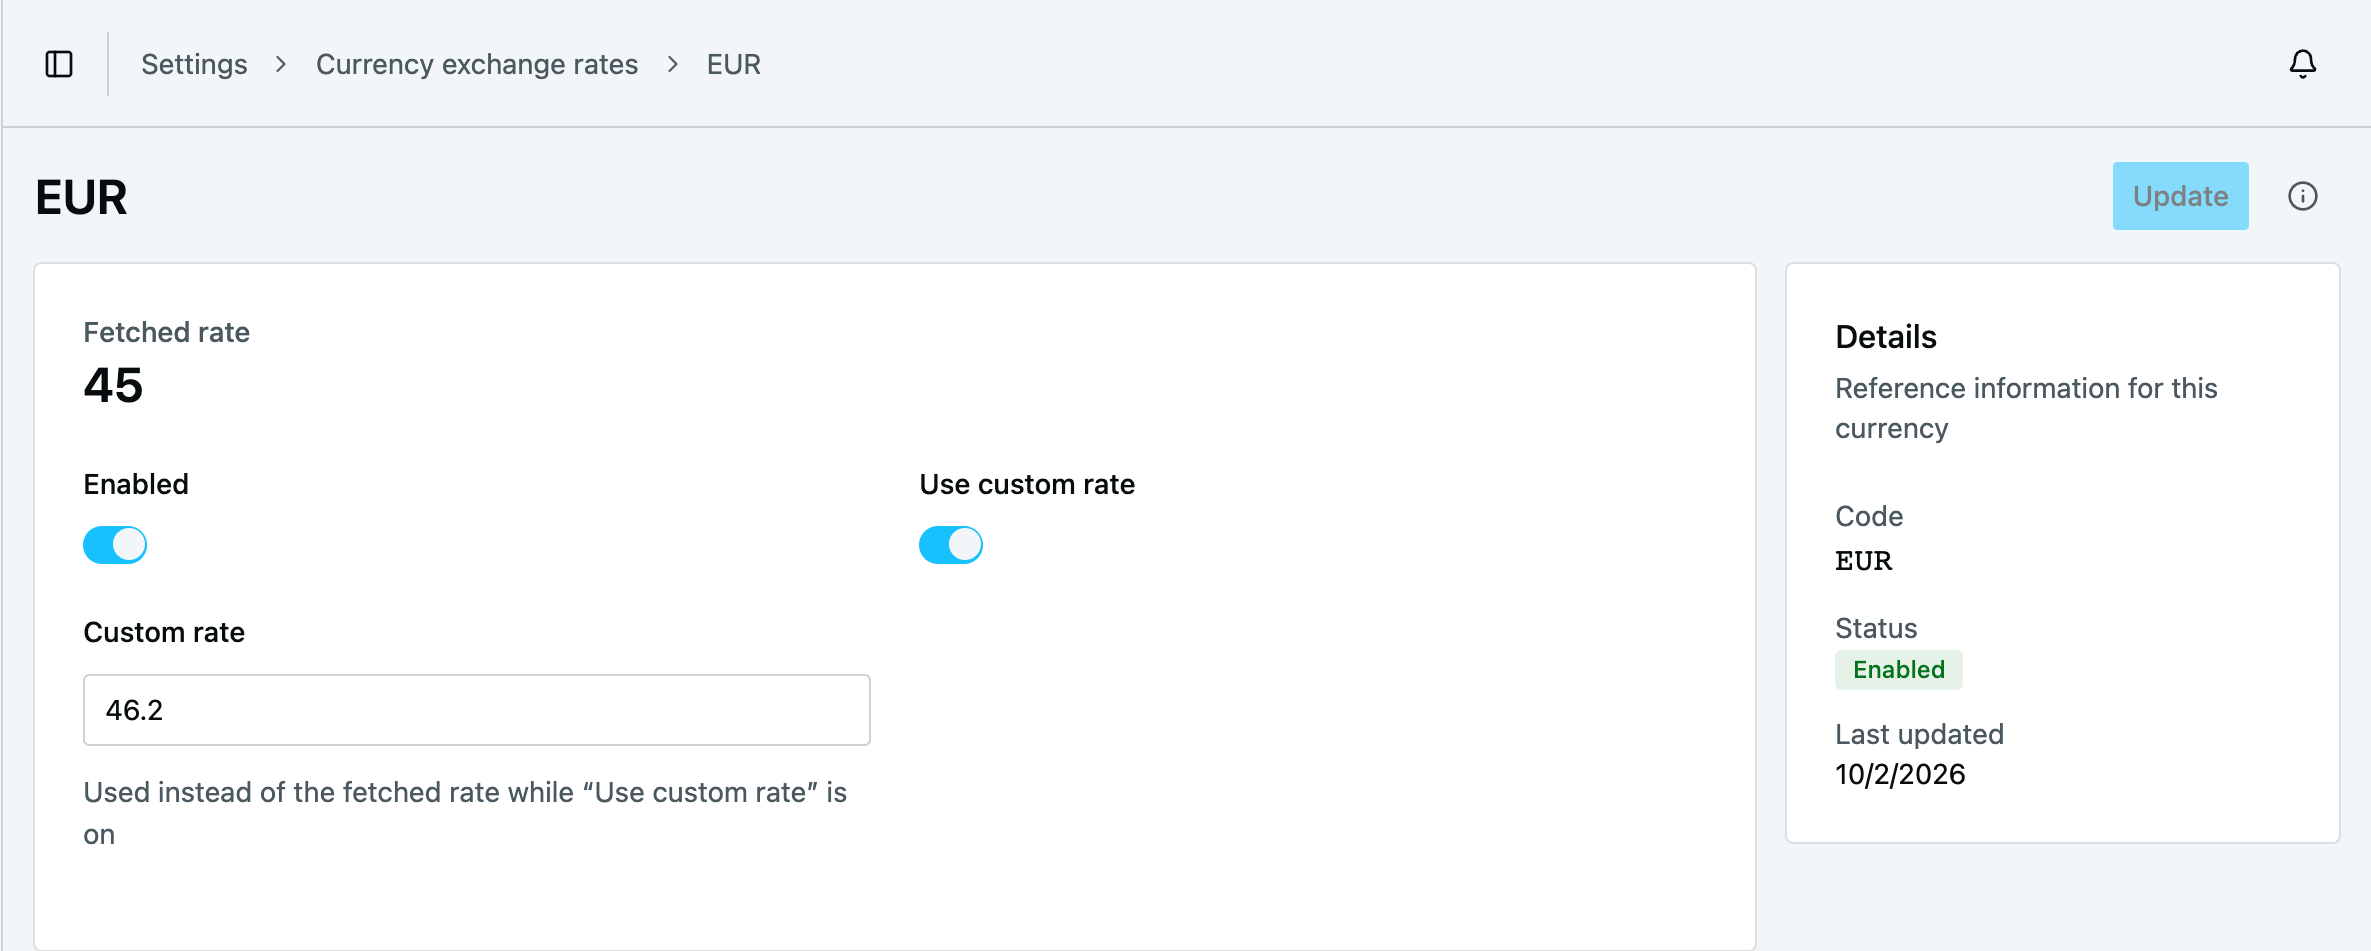
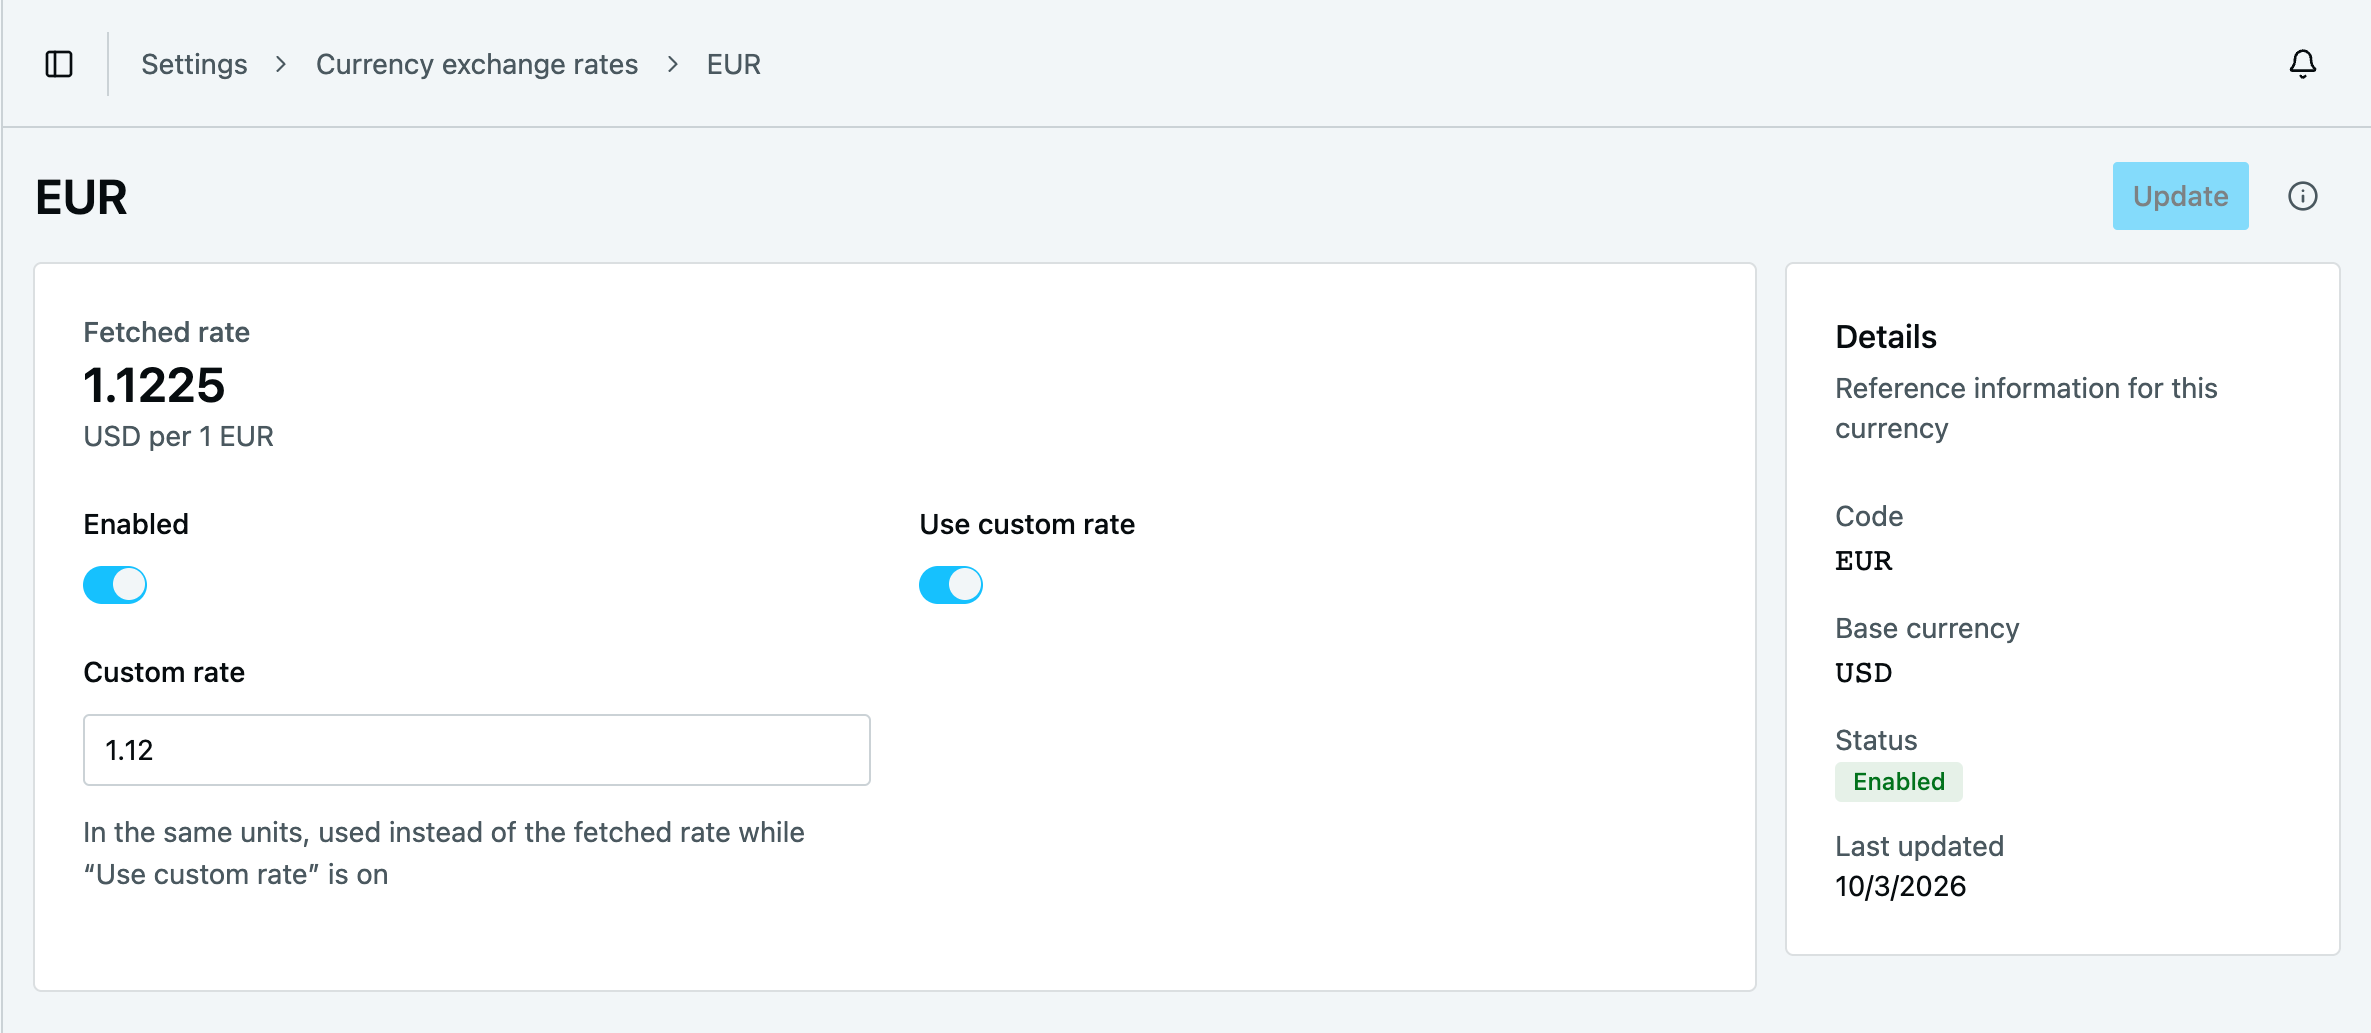
feat(exchange-rates): show rates at full precision in the dashboard, refresh screenshots
The list rounded to 3 decimals, so a JPY rate in USD read 0.006. The list
now shows 6 significant digits and the detail page every stored decimal.
The list hides updatedAt (the dashboard pins it first; the detail page has
it) and the raw baseCurrency/customRate columns, and titles the custom-rate
column consistently.

diff --git a/packages/vendure-plugin-exchange-rates/src/dashboard/routes/currency-exchange-rate-list.tsx b/packages/vendure-plugin-exchange-rates/src/dashboard/routes/currency-exchange-rate-list.tsx
@@ -1,6 +1,7 @@
 import { Trans, useLingui } from '@lingui/react/macro';
 import { Badge, DashboardRouteDefinition, DetailPageButton, ListPage, useLocalFormat } from '@vendure/dashboard';
 import { useMemo } from 'react';
+import { formatRate } from '../format-rate';
 import { getCurrencyExchangeRateListDocument } from '../graphql';
 
 const pageId = 'currency-exchange-rate-list';
@@ -21,8 +22,8 @@ export const currencyExchangeRateListRoute: DashboardRouteDefinition = {
 };
 
 function CurrencyExchangeRateListPage({ route }: { route: Parameters<DashboardRouteDefinition['component']>[0] }) {
-  const { t } = useLingui();
-  const { formatNumber, formatDate } = useLocalFormat();
+  const { t, i18n } = useLingui();
+  const { formatDate } = useLocalFormat();
 
   const booleanOptions = useMemo(
     () => [
@@ -44,9 +45,13 @@ function CurrencyExchangeRateListPage({ route }: { route: Parameters<DashboardRo
         rate: true,
         enabled: true,
         useCustomRate: true,
-        updatedAt: true,
+        // Shown inside the rate cell.
+        baseCurrency: false,
+        customRate: false,
+        // The dashboard pins `updatedAt` to the front; the detail page shows it instead.
+        updatedAt: false,
       }}
-      defaultColumnOrder={['code', 'rate', 'enabled', 'useCustomRate', 'updatedAt']}
+      defaultColumnOrder={['code', 'rate', 'enabled', 'useCustomRate']}
       onSearchTermChange={(term) => (term ? { code: { contains: term } } : {})}
       facetedFilters={{
         enabled: {
@@ -70,7 +75,8 @@ function CurrencyExchangeRateListPage({ route }: { route: Parameters<DashboardRo
               : row.original.rate;
             return (
               <span>
-                {formatNumber(value ?? 0)} <span className="text-muted-foreground">{row.original.baseCurrency}</span>
+                {formatRate(i18n.locale, value ?? 0)}{' '}
+                <span className="text-muted-foreground">{row.original.baseCurrency}</span>
               </span>
             );
           },
@@ -83,6 +89,7 @@ function CurrencyExchangeRateListPage({ route }: { route: Parameters<DashboardRo
           ),
         },
         useCustomRate: {
+          header: () => <Trans>Custom rate</Trans>,
           cell: ({ row }) => (
             <Badge variant={row.original.useCustomRate ? 'success' : 'secondary'}>
               {row.original.useCustomRate ? t`Using custom rate` : t`Fetched rate`}

diff --git a/packages/vendure-plugin-exchange-rates/src/dashboard/routes/currency-exchange-rate-detail.tsx b/packages/vendure-plugin-exchange-rates/src/dashboard/routes/currency-exchange-rate-detail.tsx
@@ -20,6 +20,7 @@ import {
   useLocalFormat,
 } from '@vendure/dashboard';
 import { useMemo } from 'react';
+import { formatRate } from '../format-rate';
 import { getCurrencyExchangeRateDetailDocument, updateCurrencyExchangeRateDocument } from '../graphql';
 
 const pageId = 'currency-exchange-rate-detail';
@@ -40,9 +41,9 @@ export const currencyExchangeRateDetailRoute: DashboardRouteDefinition = {
 type Route = Parameters<DashboardRouteDefinition['component']>[0];
 
 function CurrencyExchangeRateDetailPage({ route }: { route: Route }) {
-  const { t } = useLingui();
+  const { t, i18n } = useLingui();
   const params = route.useParams();
-  const { formatNumber, formatDate } = useLocalFormat();
+  const { formatDate } = useLocalFormat();
 
   const { form, submitHandler, entity, isPending, resetForm } = useDetailPage({
     pageId,
@@ -140,7 +141,9 @@ function CurrencyExchangeRateDetailPage({ route }: { route: Route }) {
               <p className="text-sm font-medium text-muted-foreground">
                 <Trans>Fetched rate</Trans>
               </p>
-              <p className="text-2xl font-semibold">{entity ? formatNumber(entity.rate) : '\u2014'}</p>
+              <p className="text-2xl font-semibold">
+                {entity ? formatRate(i18n.locale, entity.rate, 'full') : '\u2014'}
+              </p>
               {entity && (
                 <p className="text-sm text-muted-foreground">
                   <Trans>

diff --git a/packages/vendure-plugin-exchange-rates/src/dashboard/format-rate.ts b/packages/vendure-plugin-exchange-rates/src/dashboard/format-rate.ts
@@ -1,0 +1,8 @@
+/** Rates span many magnitudes (JPY in USD is 0.0063…), so a fixed number of decimals would hide them. */
+const listFormat: Intl.NumberFormatOptions = { maximumSignificantDigits: 6 };
+/** Every decimal a rate is stored with. */
+const fullFormat: Intl.NumberFormatOptions = { maximumFractionDigits: 8 };
+
+export function formatRate(locale: string, value: number, precision: 'list' | 'full' = 'list'): string {
+  return new Intl.NumberFormat(locale, precision === 'full' ? fullFormat : listFormat).format(value);
+}

diff --git a/packages/vendure-plugin-exchange-rates/src/dashboard/format-rate.spec.ts b/packages/vendure-plugin-exchange-rates/src/dashboard/format-rate.spec.ts
@@ -1,0 +1,14 @@
+import { describe, expect, it } from 'vitest';
+import { formatRate } from './format-rate';
+
+describe('formatRate', () => {
+  it('keeps small rates readable in the list', () => {
+    expect(formatRate('en', 0.00634217)).toBe('0.00634217');
+    expect(formatRate('en', 1.32007574)).toBe('1.32008');
+  });
+
+  it('shows every stored decimal in full', () => {
+    expect(formatRate('en', 1.32007574, 'full')).toBe('1.32007574');
+    expect(formatRate('uk', 1.1225, 'full')).toBe('1,1225');
+  });
+});
